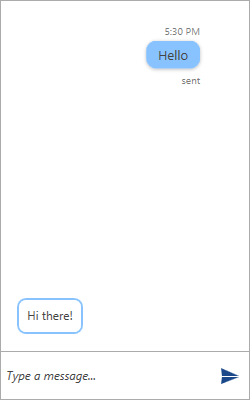
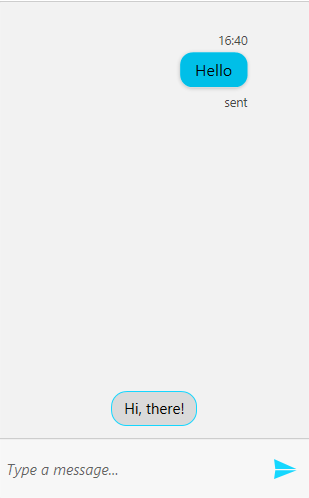
Chat: Added info about SuggestedActionsOrientation.

Changed region(s): [[0.0, 0.0, 1.0, 1.0], [0.56, 0.06, 0.812, 0.24], [0.084, 0.72, 0.308, 0.75]]

diff --git a/controls/radchat/chat-items/suggested-actions.md b/controls/radchat/chat-items/suggested-actions.md
@@ -10,24 +10,36 @@ position: 2
 
 # Suggested Actions
 
-* [Adding SuggestedAction](#adding-suggested-action)
-* [Handling the SuggestedActionReported event](#handling-the-suggestedactionreported)
+__Conversational UI__ supports adding suggestions to the user. This can be done by adding __SuggestedAction__ items to the __SuggestedActions__ collection of __RadChat__.
 
 ## Adding the SuggestedAction
 
-__Conversational UI__ supports adding suggestions to the user. This can be done by adding __SuggestedAction__ items to the __SuggestedActions__ collection of __RadChat__.
+__Example 1__ demonstrates how to add a TextMessage and populate the __SuggestedActions__ collection of the RadChat. 
 
 #### __[C#] Example 1: Adding SuggestedAction__ 
-{{region radchat-messages-suggestedactions_01}}
-	 		var textMessage = new TextMessage(this.currentAuthor, "Hello", "sent");
-            textMessage.InlineViewModel.StatusVisibility = Visibility.Visible;
+{{region cs-radchat-messages-suggestedactions_01}}
 
-            this.chat.AddMessage(textMessage);
+    private Author currentAuthor;
+    private Author otherAuthor;
 
-            this.chat.SuggestedActions.Add(new SuggestedAction("Hi there!"));
+    public MainWindow()
+    {
+        InitializeComponent();
+
+        currentAuthor = new Author("1") { Name = "Peter" };
+        otherAuthor = new Author("2") { Name = "Steven" };
+        this.chat.CurrentAuthor = currentAuthor;
+
+        var textMessage = new TextMessage(this.currentAuthor, "Hello", "sent");
+        textMessage.InlineViewModel.StatusVisibility = Visibility.Visible;
+
+        this.chat.AddMessage(textMessage);
+
+        this.chat.SuggestedActions.Add(new SuggestedAction("Hi, there!"));
+    }
 {{endregion}}
 
-Adding the __SuggestedAction__ will be visualized as shown in the figure below.
+Adding the __SuggestedAction__ will be visualized as shown in __Figure 1__.
 
 #### __Figure 1: Adding a SuggestedAction__
 ![Adding a SuggestedAction](images/RadChat_Items_SuggestedActions_01.png)
@@ -43,20 +55,35 @@ When the user selects a given suggestion, the __SuggestedActionReported__ is rai
 * __Text__: The text result.
 
 #### __[C#] Example 2: Handling the SuggestedActionReported event__ 
-{{region radchat-messages-suggestedactions_02}}
-	 private void Chat_SuggestedActionReported(object sender, SuggestedActionsEventArgs e)
+{{region cs-radchat-messages-suggestedactions_02}}
+
+    private void Chat_SuggestedActionReported(object sender, SuggestedActionsEventArgs e)
+    {
+        if (e.Text == "Hi, there!")
         {
-            if (e.Text == "Hi there!")
-            {
-                e.Text = this.otherAuthor.Name + ", " + e.Text;
-                e.CloseAfterReport = false;
-                e.PostResultInline = true;
-            }
+            e.CloseAfterReport = false;
+            e.PostResultInline = false;
+
+            this.chat.AddMessage(this.otherAuthor, e.Text);
         }
+    }
 {{endregion}}
 
-#### __Figure 1: Handling the SuggestedActionReported event__
+#### __Figure 2: Handling the SuggestedActionReported event__
 ![Handling the SuggestedActionReported event](images/RadChat_Items_SuggestedActions_02.png)
+
+## SuggestedActionsOrientation
+
+Since the __2020.2.525__ [internal build]({%slug installation-installing-lib%}) version, you have the option of setting the orientation in which the suggested actions are displayed. The default orientation is __Horizontal__.
+
+#### __[XAML] Example 3: Setting the SuggestedActionsOrientation__ 
+{{region xaml-radchat-messages-suggestedactions_3}}
+
+    <telerik:RadChat x:Name="chat" SuggestedActionsOrientation="Vertical"/>
+{{endregion}}
+
+#### __Figure 3: SuggestedActions with Vertical orientation__
+![SuggestedActions with Vertical orientation](images/RadChat_Items_SuggestedActions_03.png)
 
 ## See Also
 
